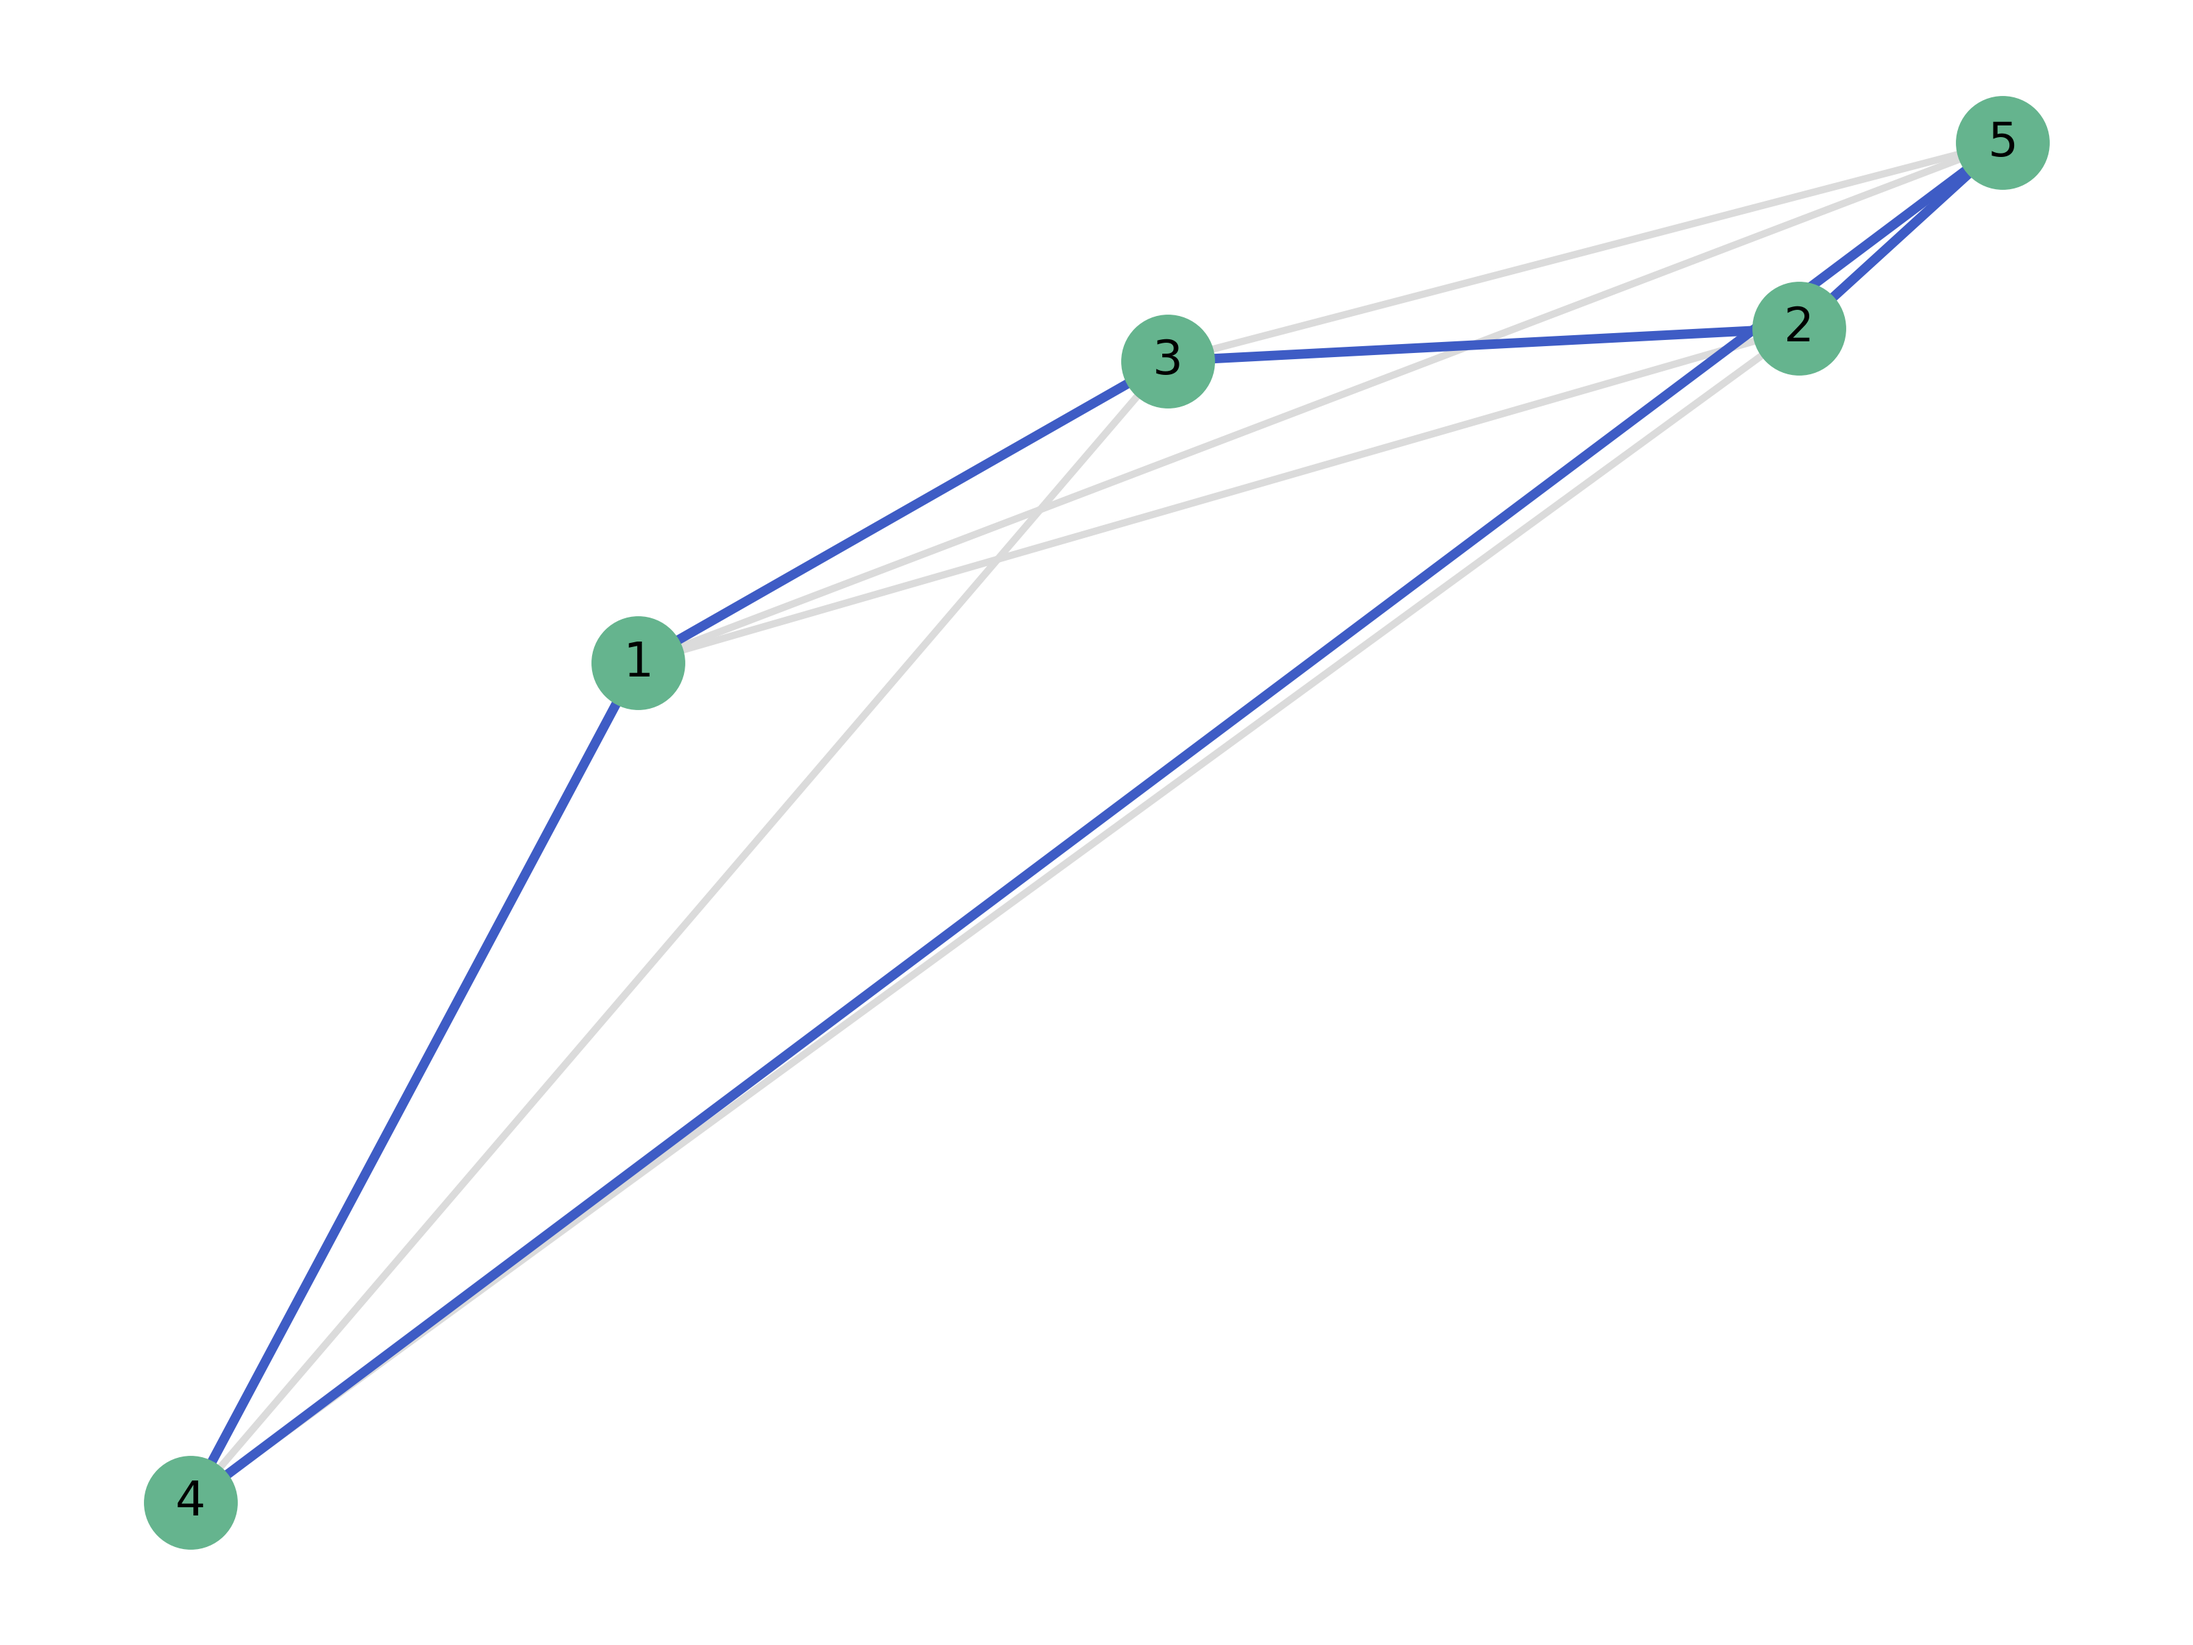
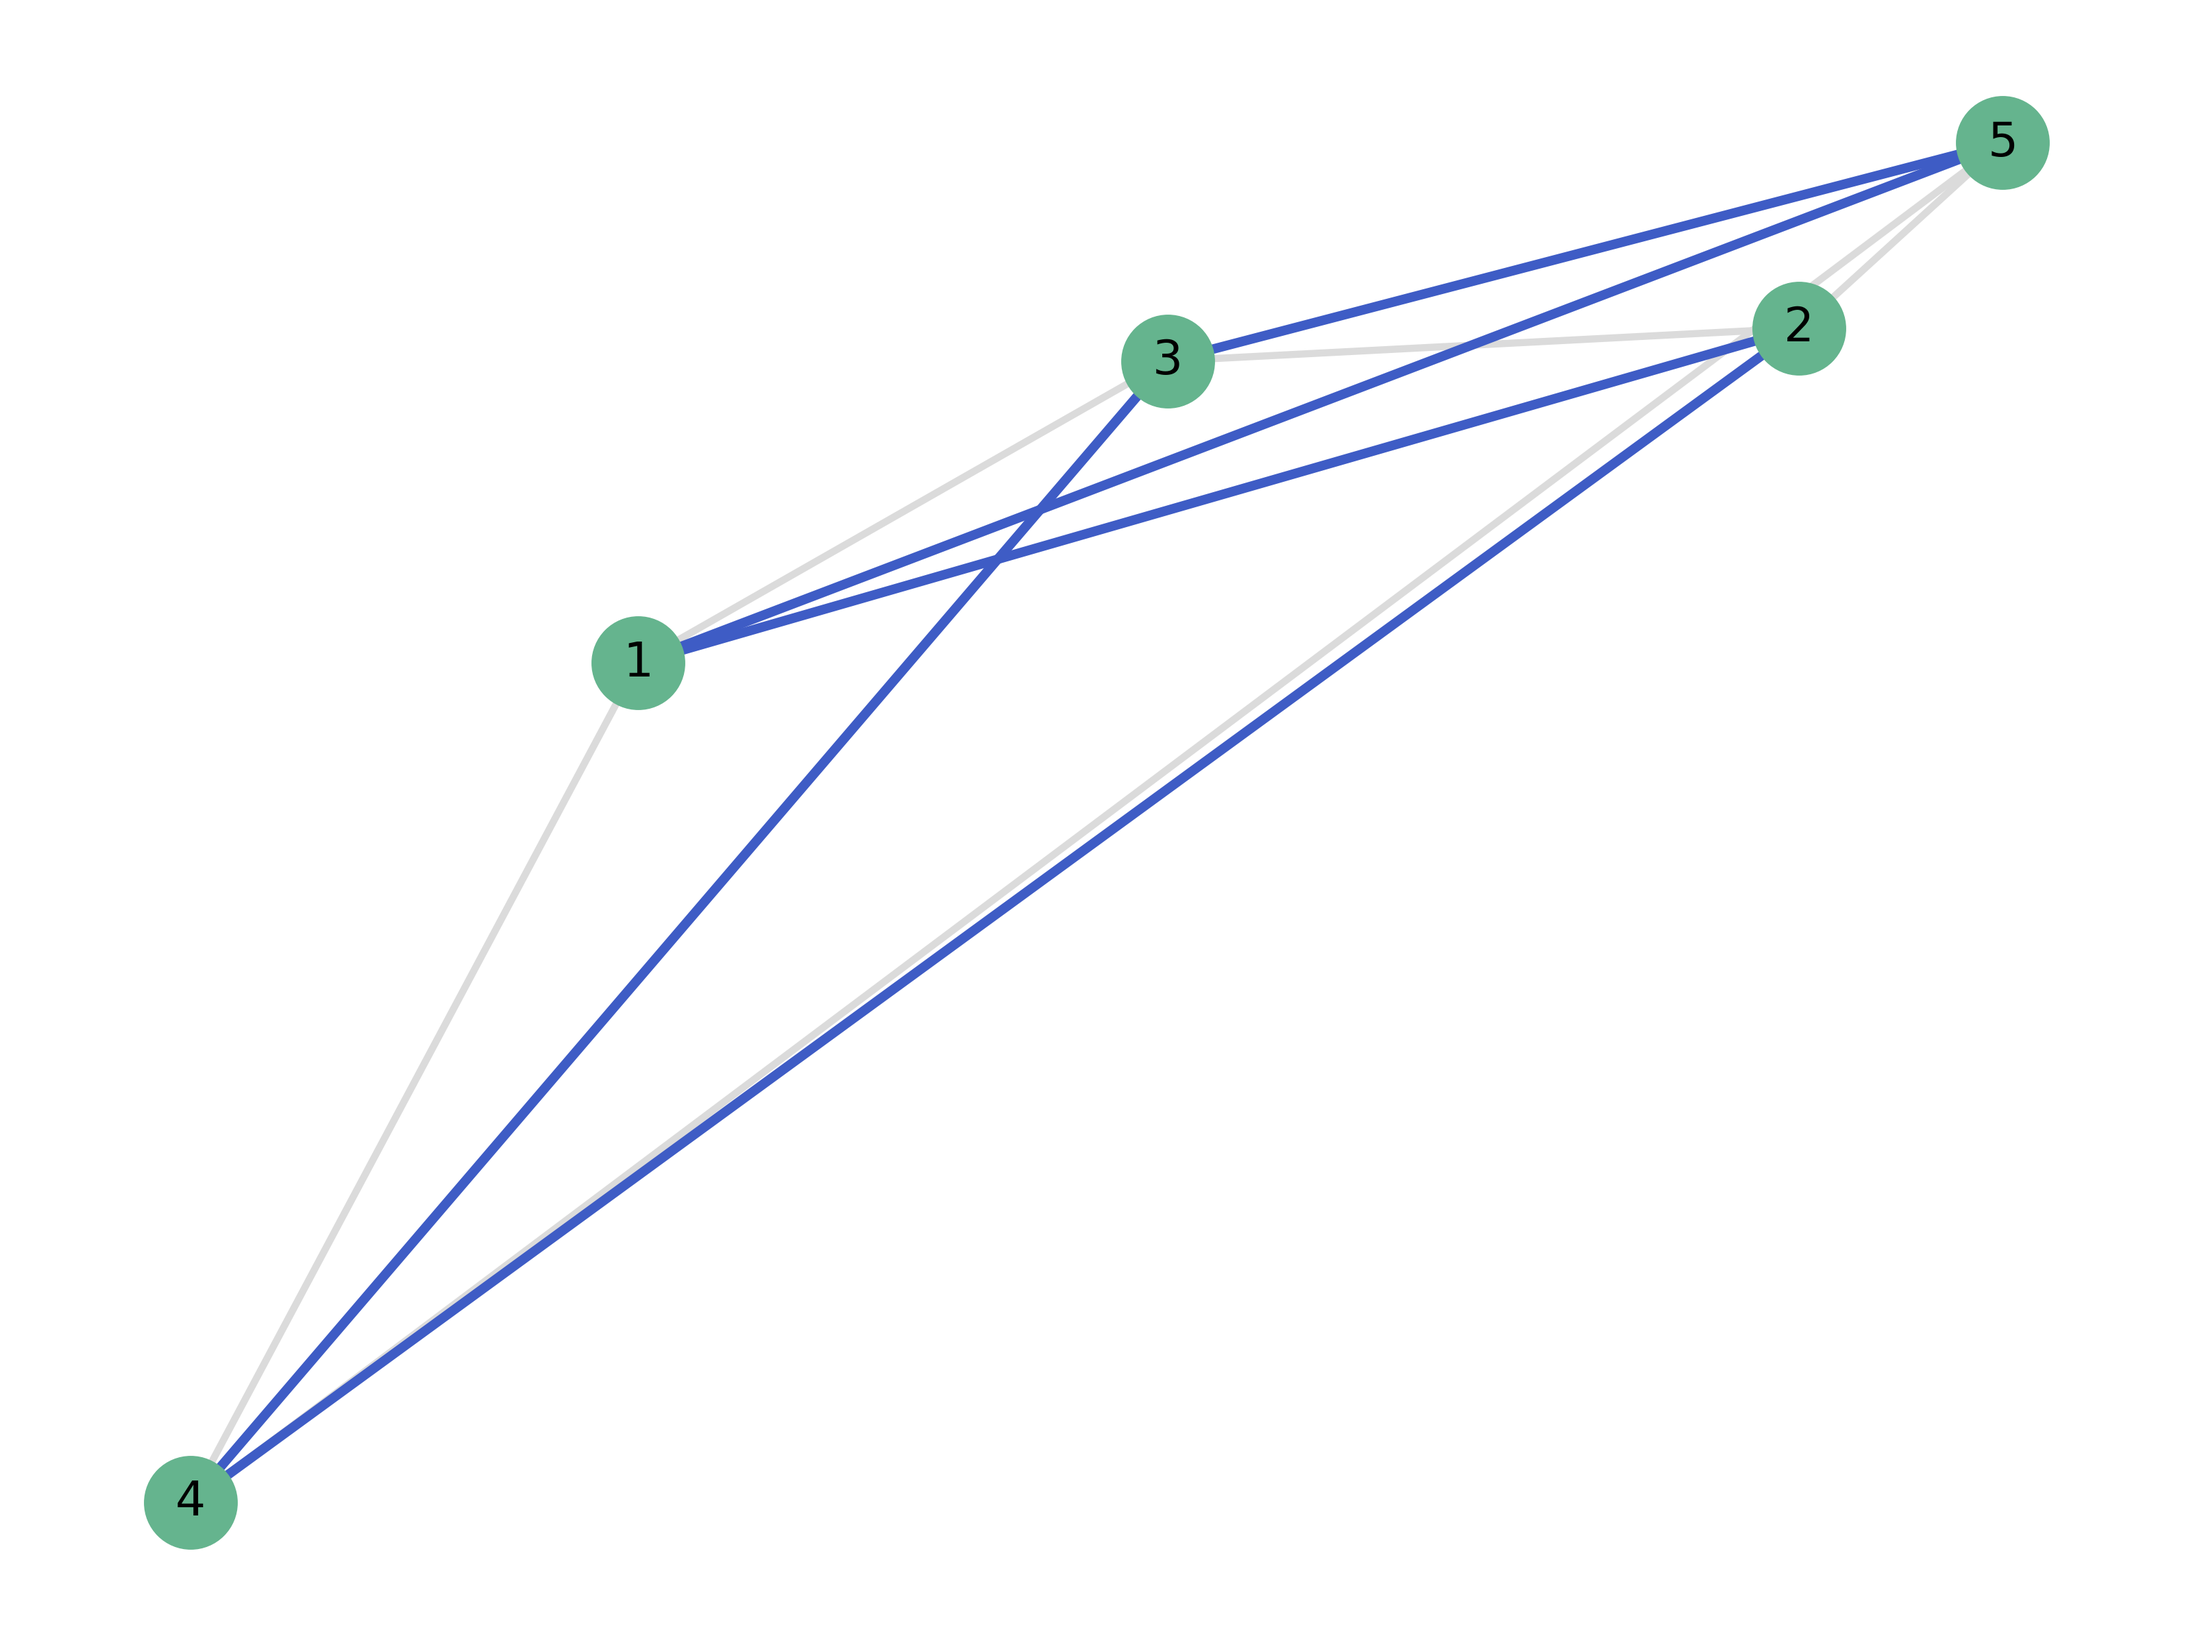
playback button

diff --git a/playground/templates/playground/hc.html b/playground/templates/playground/hc.html
@@ -14,14 +14,13 @@
 
 <body>
     <div id="controls">
-        <h2>Locations</h2>
+        <h2>Maps</h2>
         <input type="radio" id="predefined" name="location" value="predefined" checked>
         <label for="predefined">PRE-DEFINED</label>
         <input type="radio" id="custom" name="location" value="custom">
         <label for="custom">CUSTOM</label>
     
         <div id="predefined-options">
-            <h3>Pre-defined maps</h3>
             <label>City count:</label>
             <input type="radio" name="city-count" value="5"> 5 cities
             <input type="radio" name="city-count" value="10"> 10 cities
@@ -30,12 +29,12 @@
         </div>
     
         <div id="custom-options" style="display: none;">
-            <h3>Custom map</h3>
             <label for="myfile">Select a file:</label>
             <input type="file" id="custom-file" name="custom_file" accept=".csv, text/csv"/>
         </div>
-        <button id="start-button">Start</button>
         <div id="error-message" style="color: red; display: none;"></div>
+        <button id="replay-button" style="display: none;">Replay</button>
+        <button id="start-button">Start</button>
     </div>
     <div id="result" style="display: none;">
         <h2>Best Tour: <span id="tour"></span></h2>
@@ -48,12 +47,36 @@
     </div>
 
     <script>
+        function startVisualization(plotFiles) {
+            $('#tour').text(plotFiles.tour.join(' -> '));
+            $('#distance').text(plotFiles.distance);
+            $('.rotating').empty();
+            plotFiles.plot_files.forEach(function(plot_file, index) {
+                let timestamp = new Date().getTime();
+                let plot_url = plot_file + '?t=' + timestamp;
+                $('.rotating').append('<li class="image"><img src="' + plot_url + '" alt="Plot" class="plot-image"></li>');
+            });
+
+            let numberOfImages = plotFiles.plot_files.length;
+            let totalDuration = numberOfImages * 1; 
+
+            $('.rotating .image').each(function(index) {
+                $(this).css('animation', `rotate ${totalDuration}s forwards linear`);
+                $(this).css('animation-delay', `${index * 1}s`);
+            });
+
+            $('#result').show();
+        }
+
         $(document).ready(function() {
+            let plotFiles;
+
             $('input[name="location"]').change(function() {
                 if (this.value === 'predefined') {
                     $('#predefined-options').show();
                     $('#custom-options').hide();
                     $('#custom-file').val('');
+                    $('#error-message').hide();
                 } else {
                     $('#predefined-options').hide();
                     $('#custom-options').show();
@@ -62,8 +85,10 @@
             $('#custom-file').change(function(e) {
                 var ext = this.value.match(/\.([^\.]+)$/)[1];
                 if (ext !== 'csv') {
-                    alert('Not allowed. Please upload a CSV file.');
+                    $('#error-message').text('Not allowed. Please upload a CSV file.').show();
                     this.value = '';
+                } else {
+                    $('#error-message').hide();
                 }
             });
             $('#start-button').click(function() {
@@ -76,7 +101,7 @@
                 } else if (selectedCityCount) {
                     formData.append('city_count', selectedCityCount);
                 } else {
-                    alert('Please select the number of cities or upload a custom map.');
+                    $('#error-message').text('Please select the number of cities or upload a custom map.').show();
                     return;
                 }
 
@@ -90,30 +115,20 @@
                     contentType: false,
                     success: function(response) {
                         $('#error-message').text('').hide();
-                        $('#tour').text(response.tour.join(' -> '));
-                        $('#distance').text(response.distance);
-                        $('.rotating').empty();
-                        response.plot_files.forEach(function(plot_file, index) {
-                            let timestamp = new Date().getTime();
-                            let plot_url = plot_file + '?t=' + timestamp;
-                            $('.rotating').append('<li class="image"><img src="' + plot_url + '" alt="Plot" class="plot-image"></li>');
-                        });
-
-                        let numberOfImages = response.plot_files.length;
-                        let totalDuration = numberOfImages * 1; // 3 seconds per image
-
-                        $('.rotating .image').each(function(index) {
-                            $(this).css('animation', `rotate ${totalDuration}s forwards linear`);
-                            $(this).css('animation-delay', `${index * 1}s`);
-                        });
-
-                        $('#result').show();
+                        plotFiles = response;
+                        startVisualization(plotFiles);
+                        $('#replay-button').show();
                     },
                     error: function(xhr, status, error) {
                         let errorMessage = xhr.responseJSON.error;
                         $('#error-message').text(errorMessage).show();
                     }
                 });
+            });
+            $('#replay-button').click(function() {
+                if (plotFiles) {
+                    startVisualization(plotFiles);
+                }
             });
         });
     </script>

diff --git a/playground/hc.py b/playground/hc.py
@@ -113,5 +113,4 @@ class HillClimbing:
             self.plot_graph_step(G, positions, tour, swapped_edges=swapped_edges, swapped_nodes=swapped_nodes)
             self.plot_graph_step(G, positions, tour)
 
-        self.plot_graph_step(G, positions, tour)
         return tour, self.total_distance(tour)
